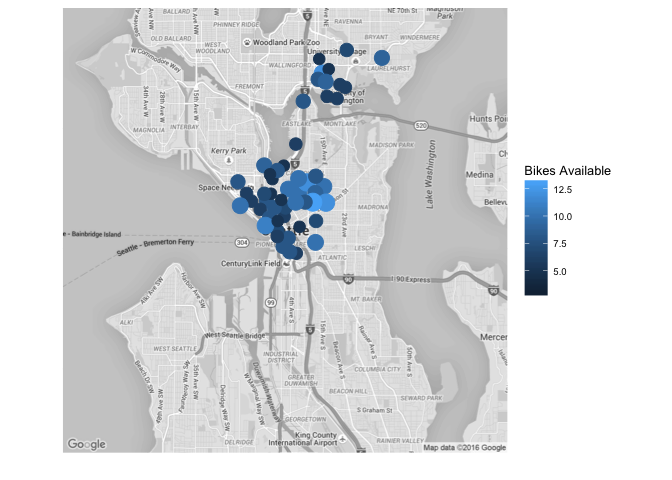
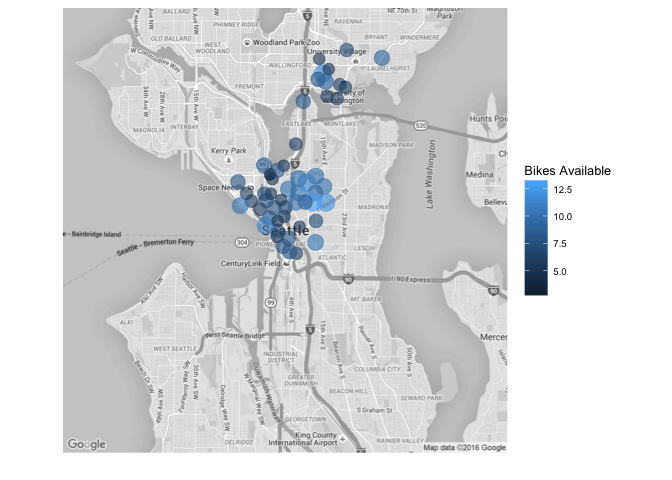
README updates

Changed region(s): [[0.3438, 0.2812, 0.5, 0.5625], [0.4375, 0.0938, 0.5312, 0.25], [0.5625, 0.0938, 0.5938, 0.1562]]

diff --git a/README.md b/README.md
@@ -48,7 +48,7 @@ map <- get_googlemap("seattle", zoom = 12, color = "bw", maptype = "roadmap")
 #> Map from URL : http://maps.googleapis.com/maps/api/staticmap?center=seattle&zoom=12&size=640x640&scale=2&maptype=roadmap&sensor=false
 #> Information from URL : http://maps.googleapis.com/maps/api/geocode/json?address=seattle&sensor=false
 p <- ggmap(map) +
-    geom_point(data=s$stations, aes(x=lo, y=la, size=ba, color=ba)) +
+    geom_point(data=s$stations, aes(x=lo, y=la, size=ba, color=ba), alpha=0.6) +
     scale_size_area(guide=FALSE) +
     scale_color_continuous(name = "Bikes Available") +
     theme_minimal() +
